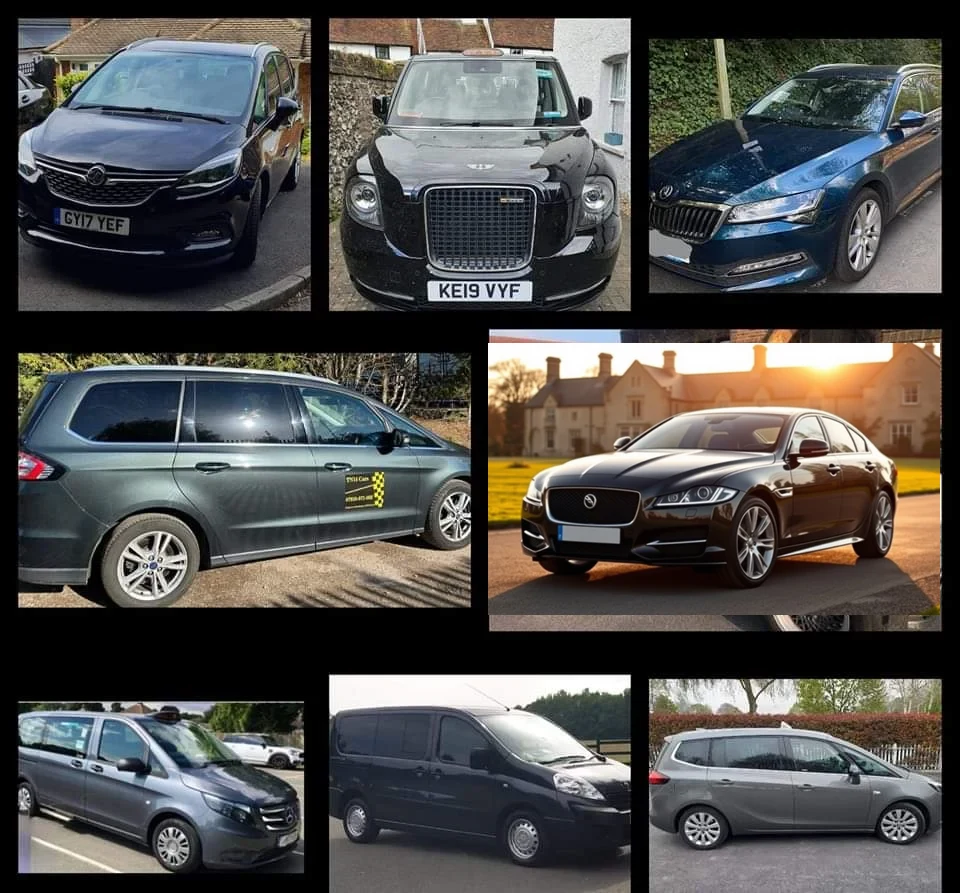
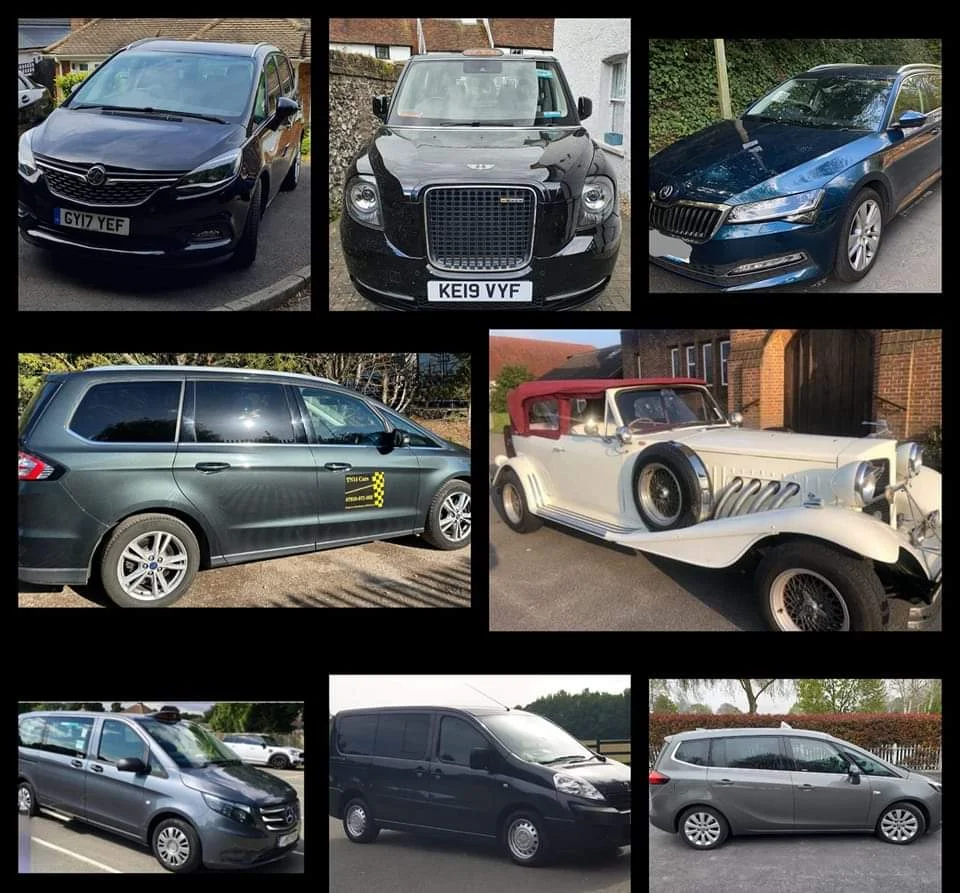
Restore original Beauford fleet image, revert alt text
Client OK with original image staying for now. Text amendments
(executive cars callout, 24/7, removed Beauford references in copy)
remain in place.

Changed region(s): [[0.5, 0.3628, 1.0, 0.6954]]

diff --git a/index.html b/index.html
@@ -213,7 +213,7 @@
       <!-- Vehicle grid photo -->
       <div class="rounded-2xl overflow-hidden border border-white/5 mt-4">
         <img src="images/fleet-vehicles.webp"
-             alt="TN14 Cars individual vehicles — including London Black Cab and executive cars"
+             alt="TN14 Cars individual vehicles — saloons, estates, MPVs, minibus and London Black Cab"
              class="w-full object-cover" />
       </div>
     </div>
